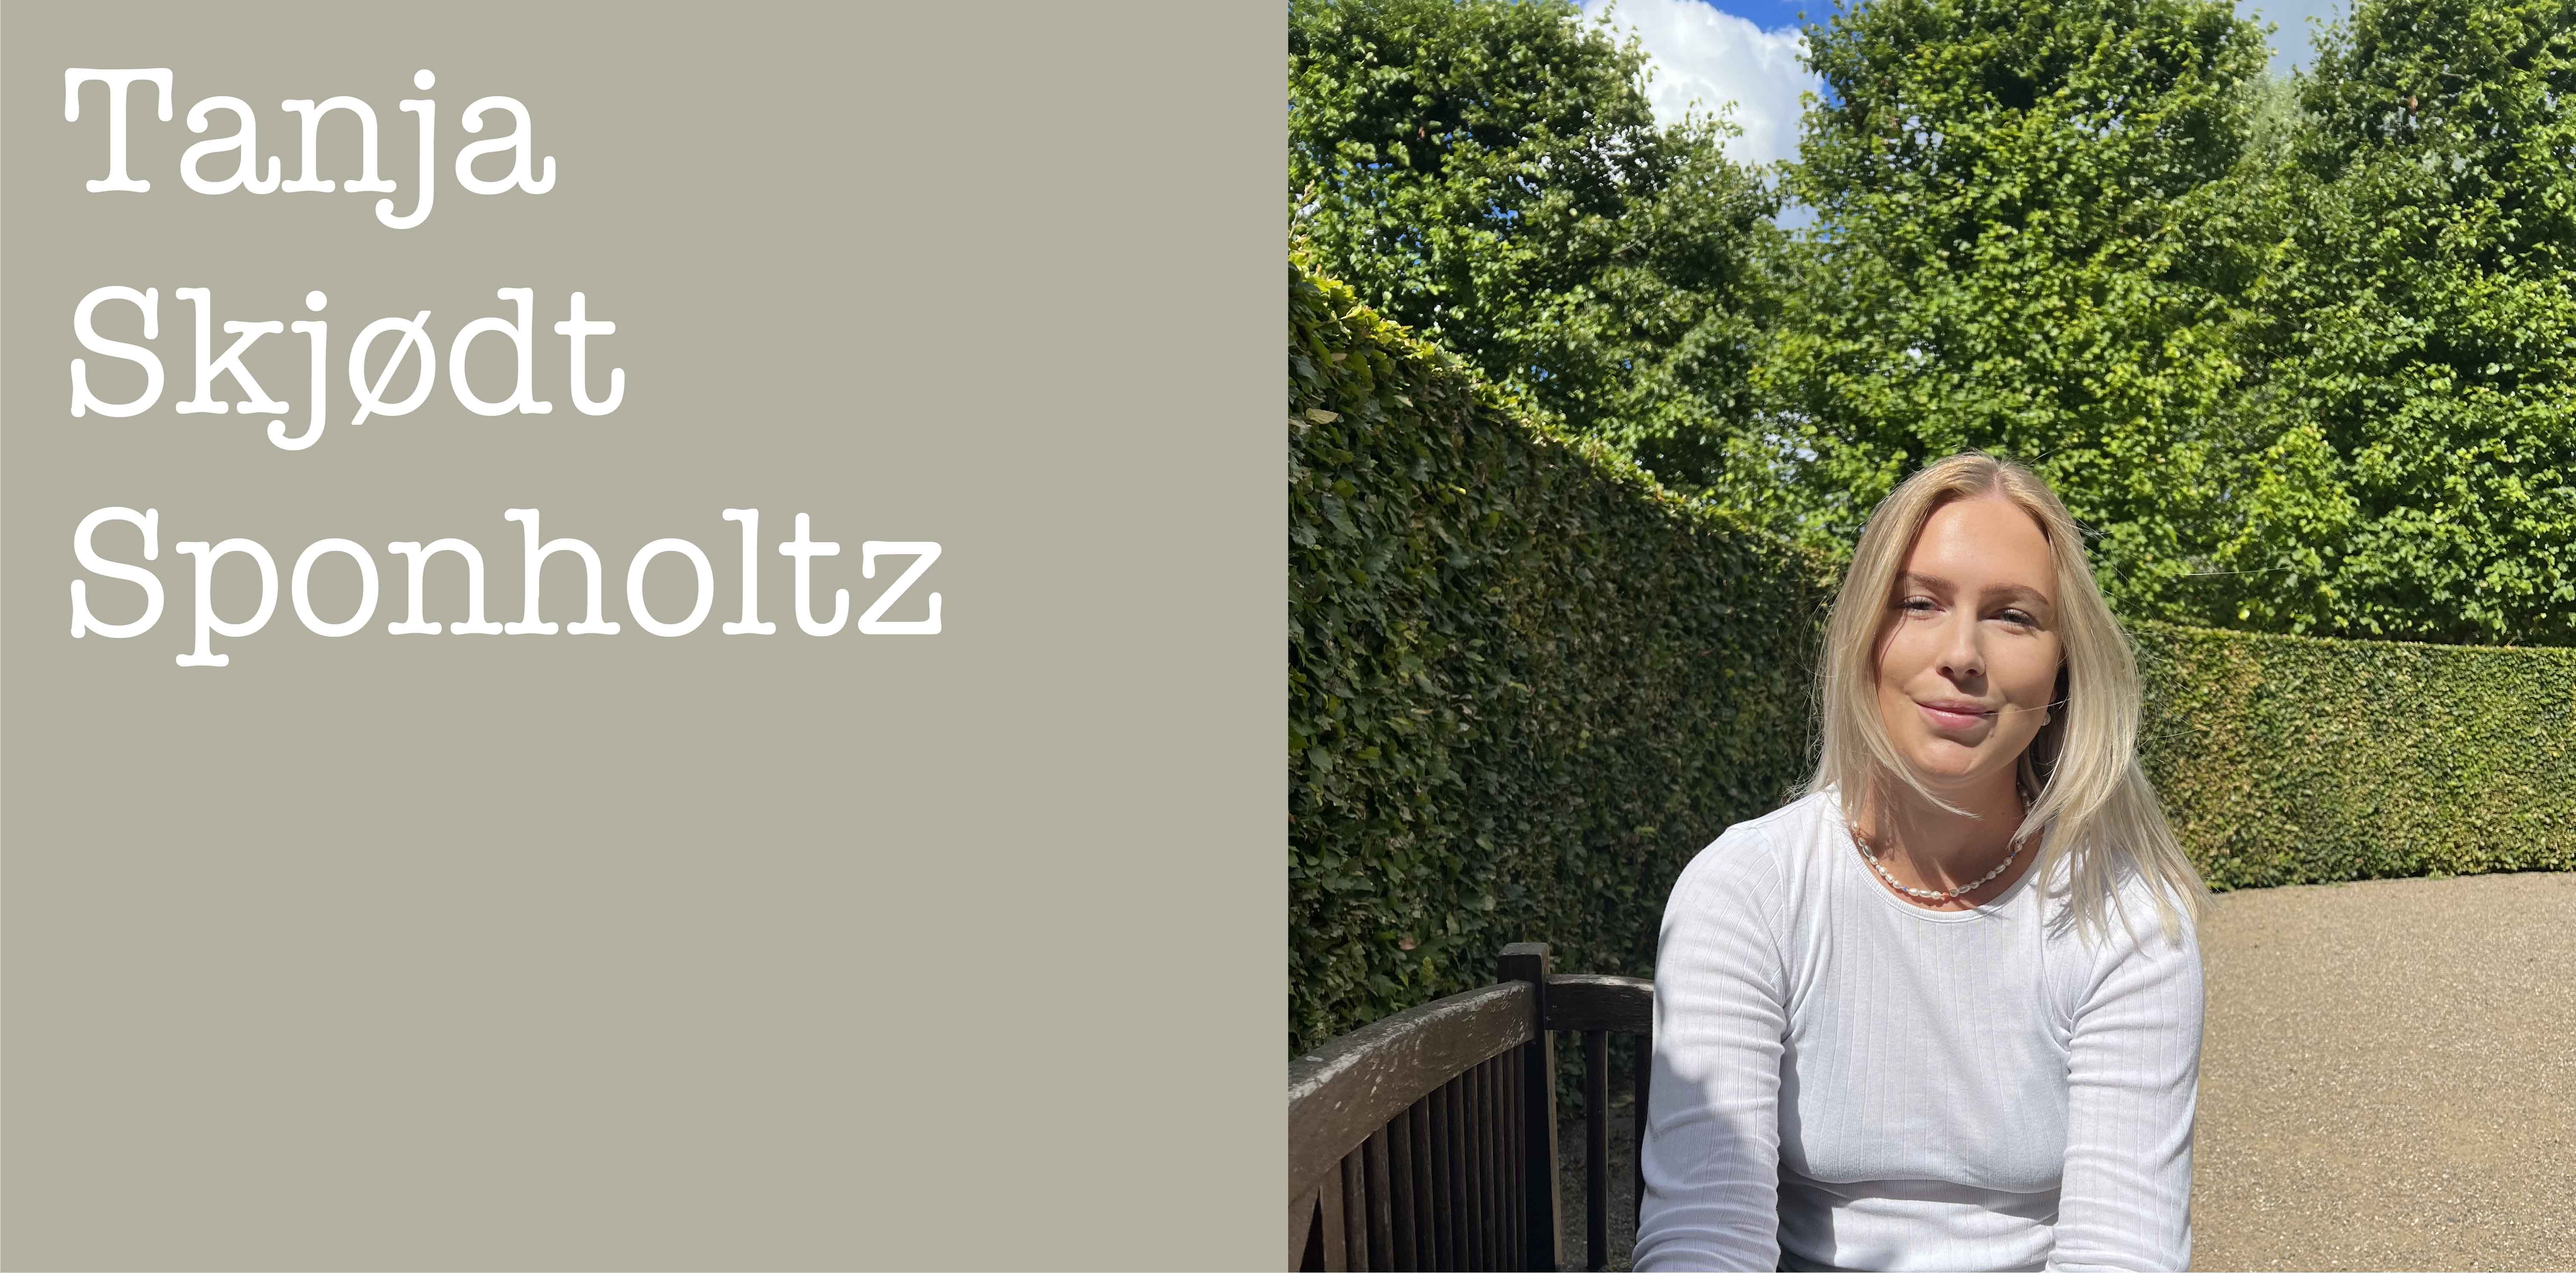
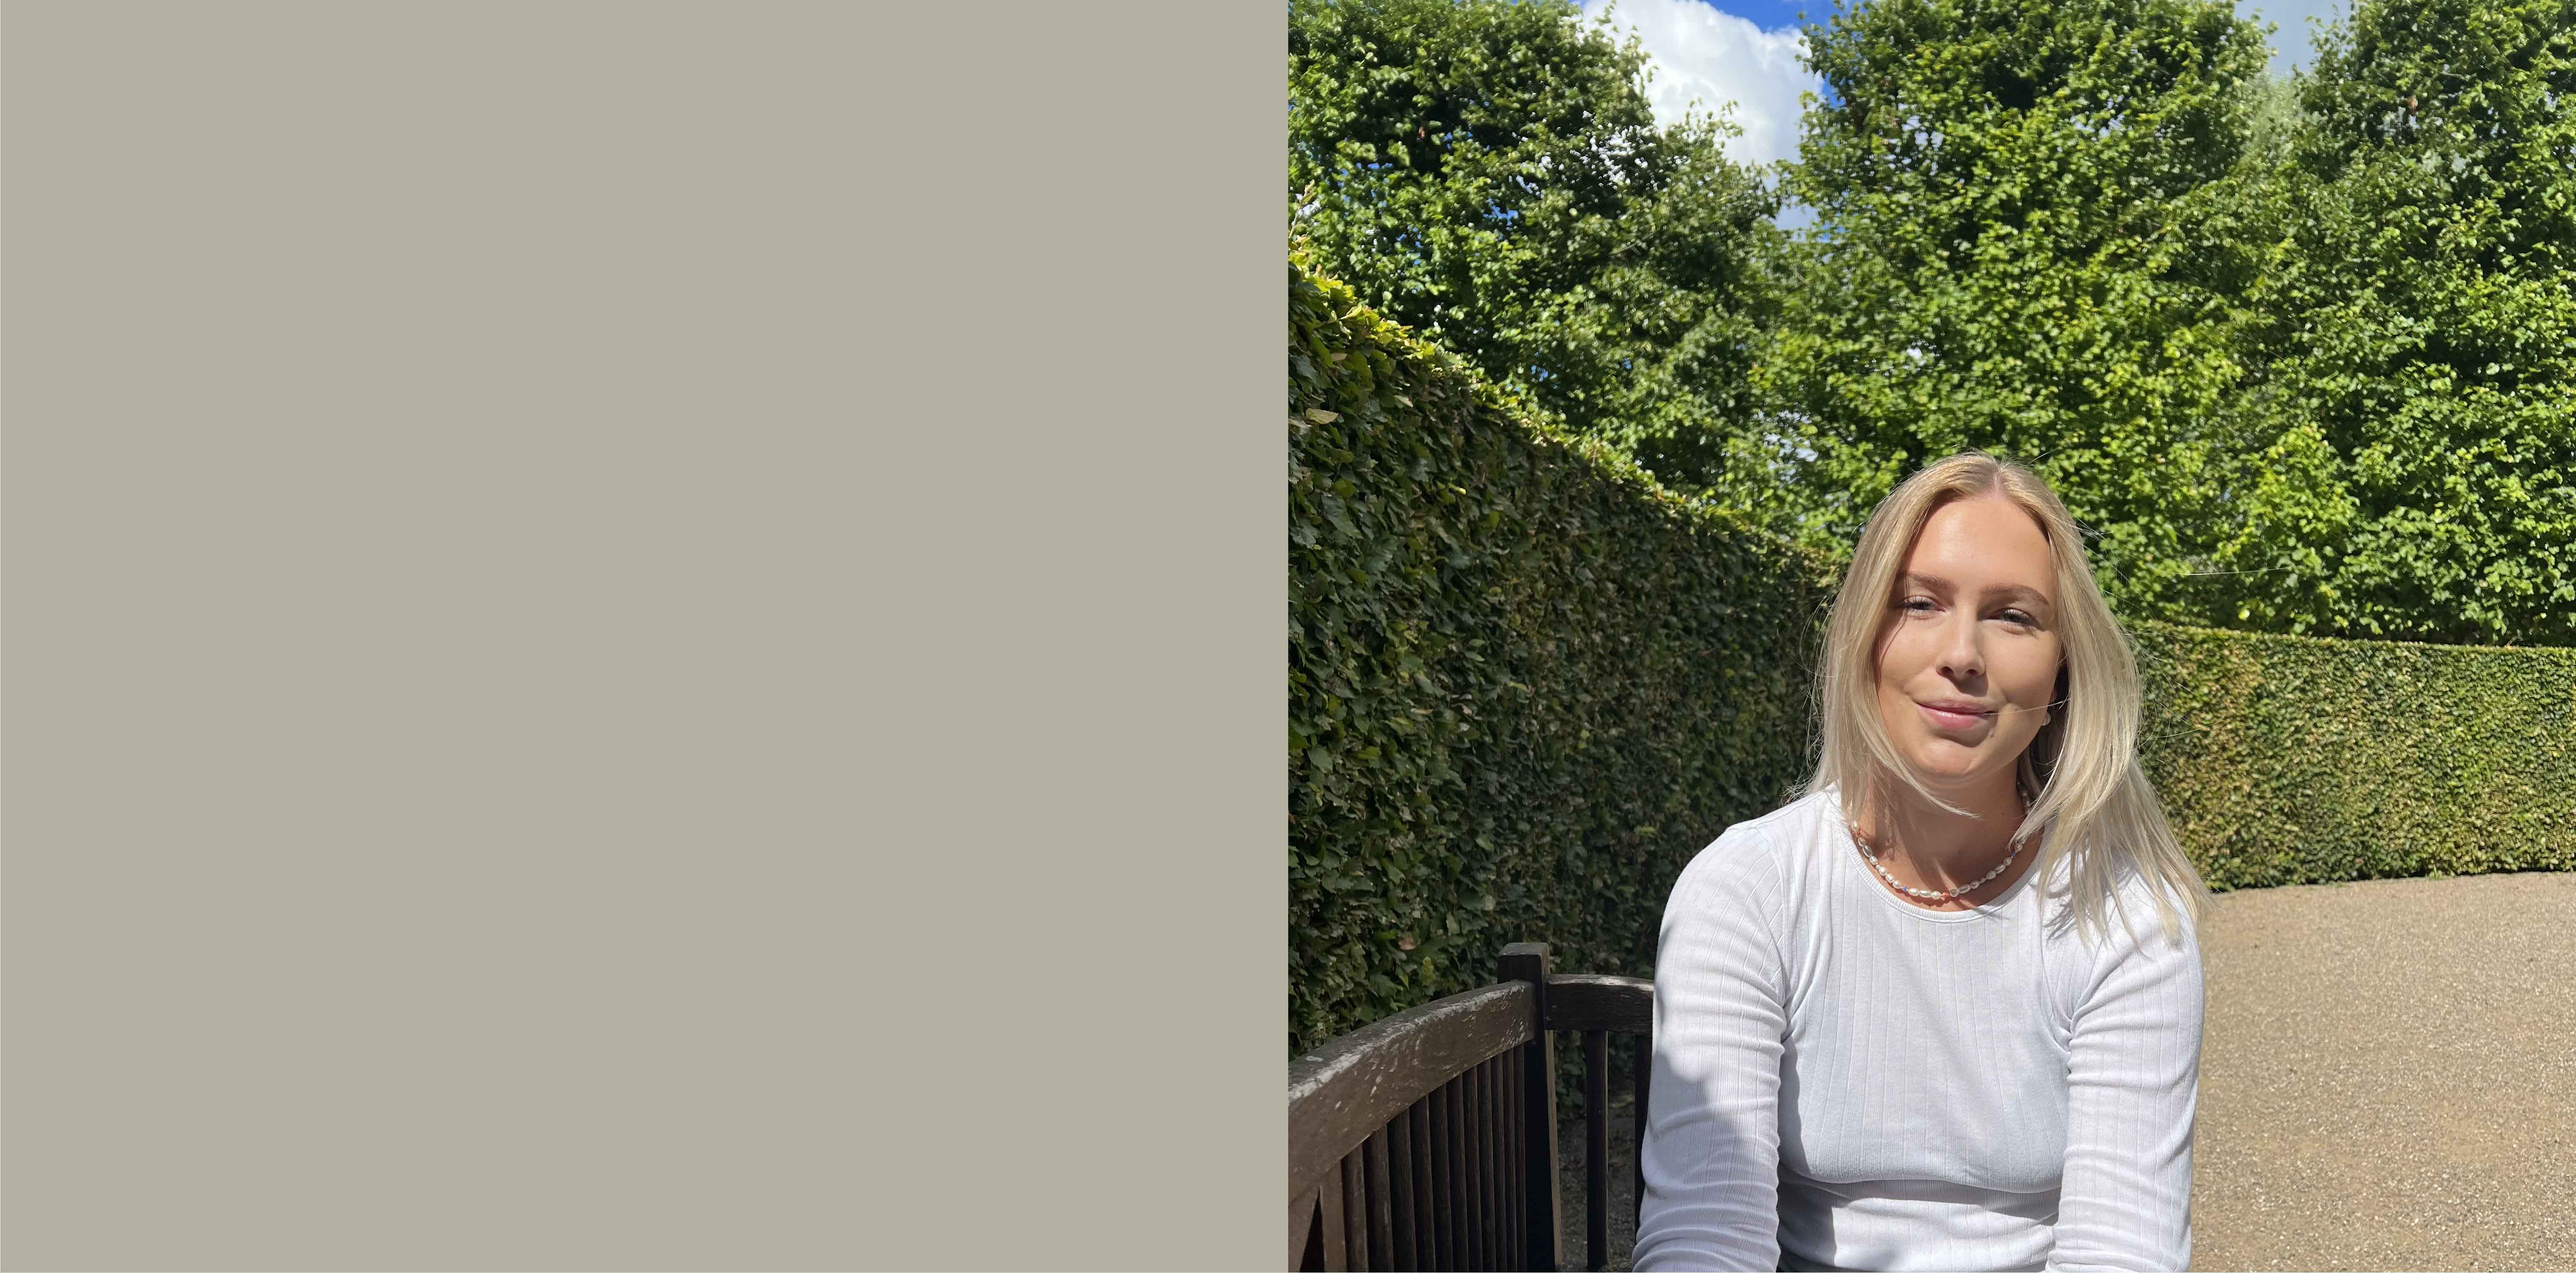
comit

Changed region(s): [[0.0, 0.3731, 0.3749, 0.5286], [0.0312, 0.2177, 0.25, 0.3731], [0.0, 0.0311, 0.2187, 0.1866]]

diff --git a/src/index.html b/src/index.html
@@ -9,13 +9,37 @@
   <body class="">
     <main class="">
       <section class="">
-        <div>
-          <img class="h-400 w-400" src="fotoafmig.jpg" alt="" />
+        <div class="grid">
+          <div class="">
+            <img
+              class="h-screen w-full object-cover"
+              src="fotoafmig.jpg"
+              alt=""
+            />
+          </div>
+          <!-- <img
+            class=""
+            src="arrow_circle_down_FILL0_wght600_GRAD0_opsz48.svg"
+            alt=""
+          /> -->
+          <h1
+            class="absolute top-72 pl-4 text-6xl text-white md:top-40 md:pl-20 md:text-8xl lg:ml-8 lg:text-9xl"
+          >
+            Tanja
+          </h1>
+          <h1
+            class="absolute top-72 my-14 pl-4 text-6xl text-white md:top-40 md:my-28 md:pl-20 md:text-8xl lg:ml-8 lg:text-9xl"
+          >
+            Skjødt
+          </h1>
+          <h1
+            class="absolute top-72 my-28 pl-4 text-6xl text-white md:top-40 md:my-56 md:pl-20 md:text-8xl lg:ml-8 lg:text-9xl"
+          >
+            Sponholtz
+          </h1>
         </div>
       </section>
-      <section class="">
-        <img src="arrow_circle_down_FILL0_wght600_GRAD0_opsz48.svg" alt="" />
-      </section>
+      <section class=""></section>
 
       <section>
         <div>

diff --git a/src/main.js b/src/main.js
@@ -1,3 +1,10 @@
 import "./style.css";
 /* Import af Motion One bibliotek */
 import { animate, stagger, inView, scroll, timeline } from "motion";
+animate(
+  " h1",
+  { opacity: [0, 1] },
+  {
+    delay: stagger(0.5, { start: 1 }),
+  }
+);
